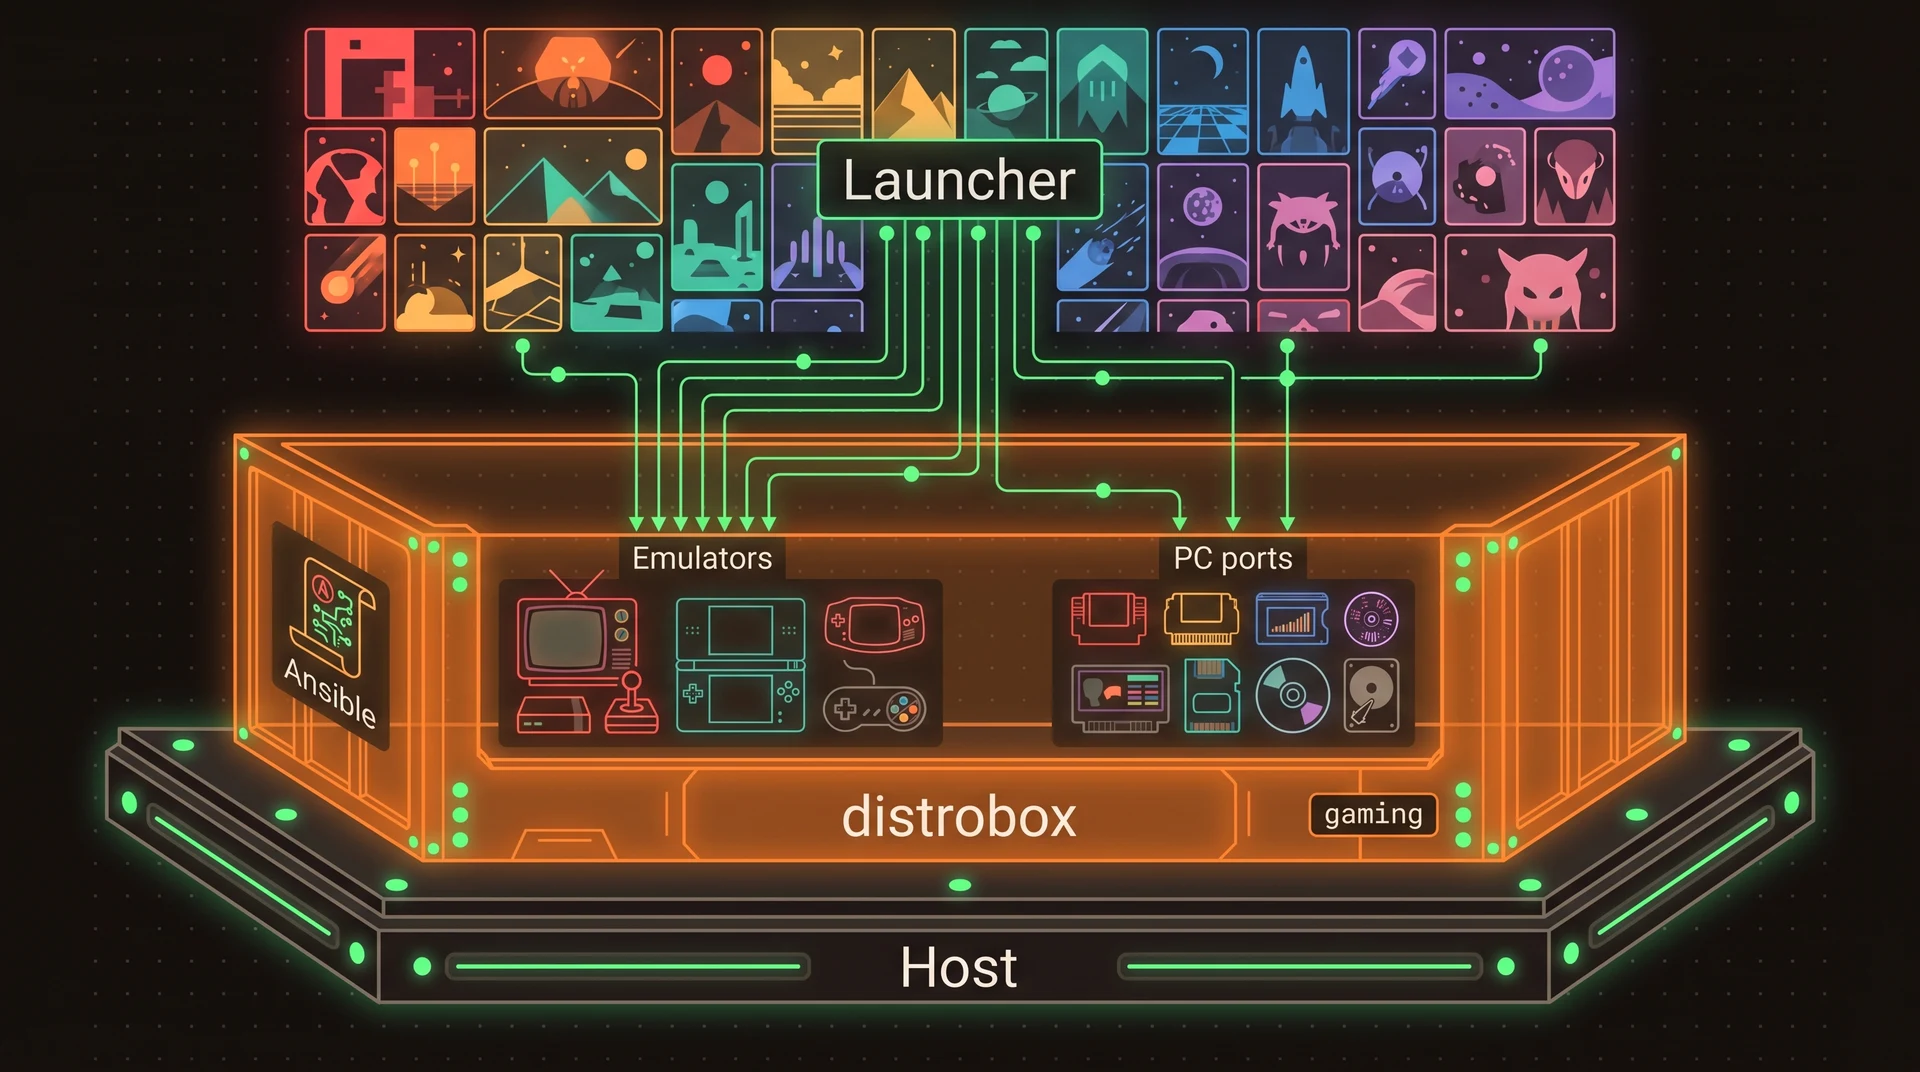
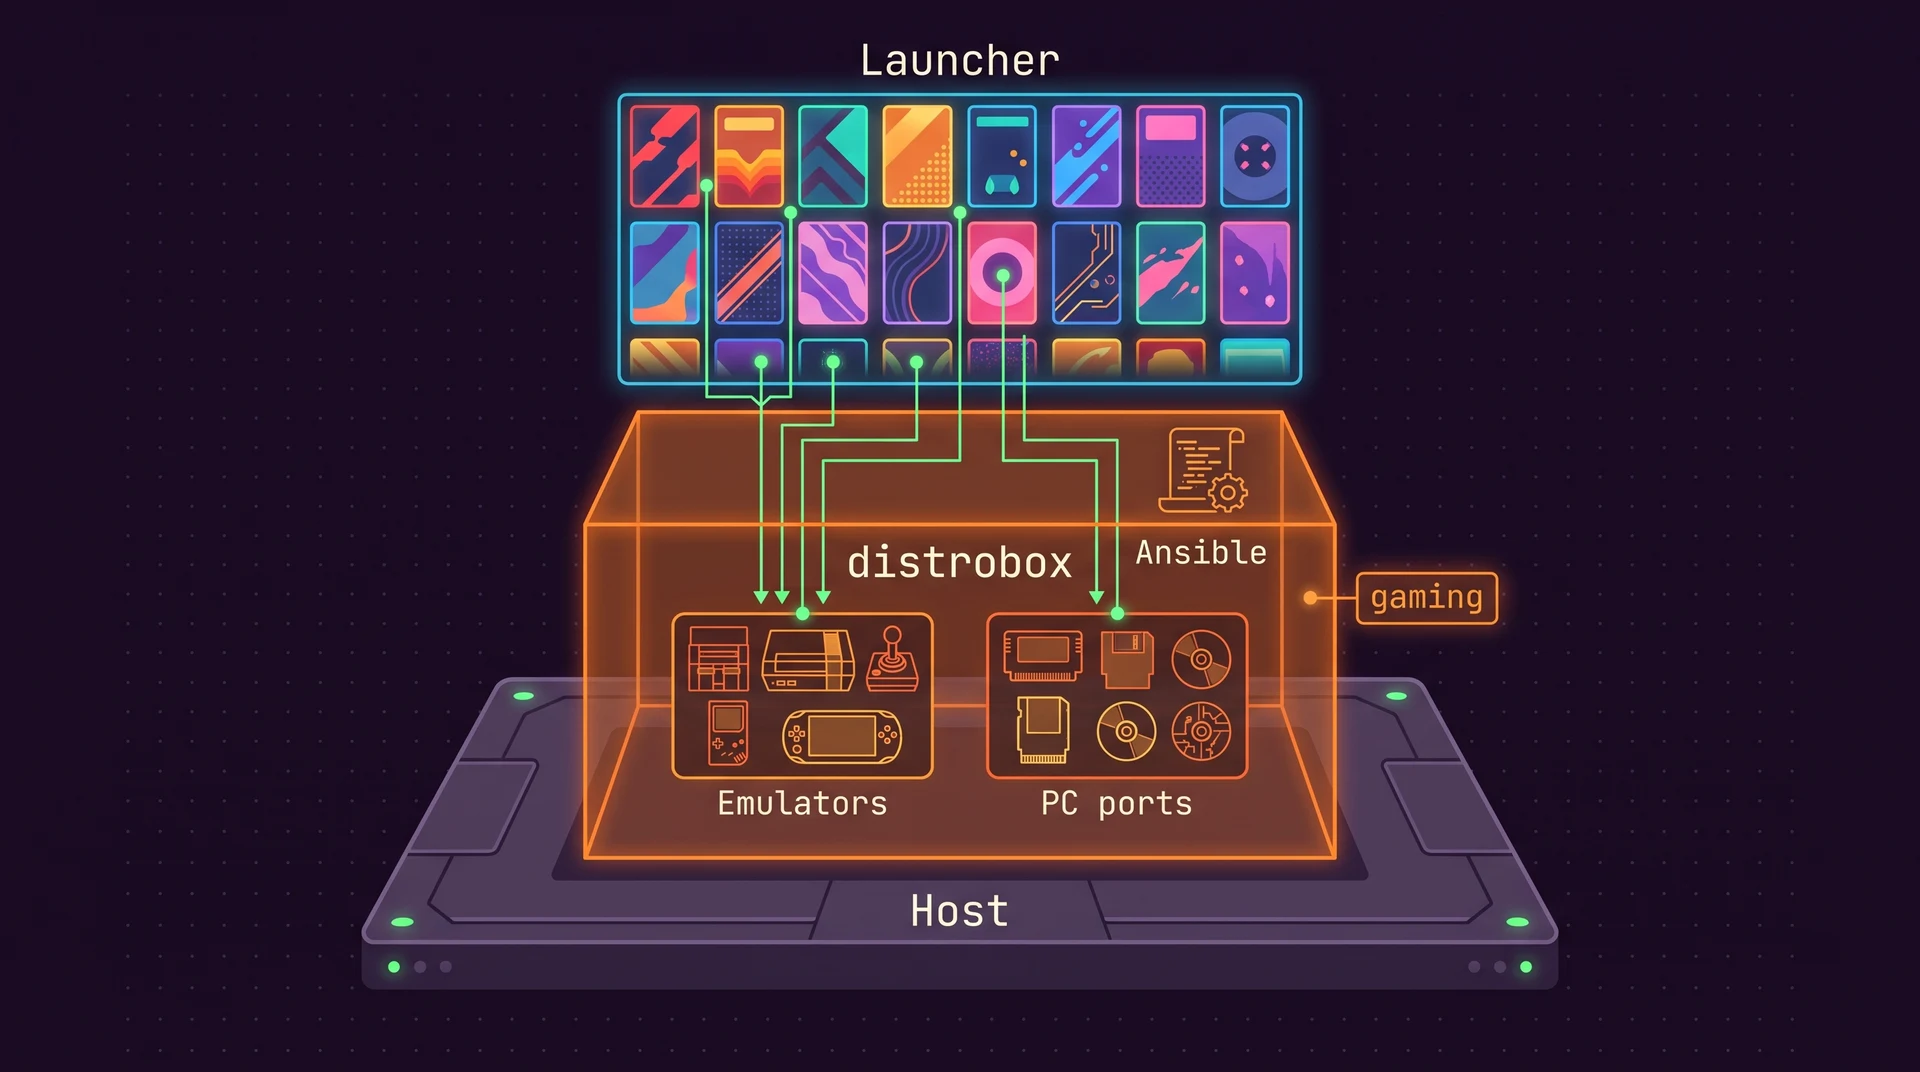
Palette: dark purple ground, closer to Unit-01, farther from ai-jail
Neutrals move from warm graphite (hue 60) to an aubergine purple (hue 310,
chroma 0.05), between ai-memory's indigo and ai-jail's maroon. Phosphor
green stays the one action color. Violet subject shifts to 288. All
diagrams and the share card regenerated on the new ground; contrast and
color-vision checks pass. Rationale in docs/color-study.md.

diff --git a/src/styles/global.css b/src/styles/global.css
@@ -11,26 +11,26 @@
   --v-orange: oklch(0.74 0.177 52);
   --v-amber: oklch(0.84 0.155 80);
   --v-teal: oklch(0.8 0.130 190);
-  --v-blue: oklch(0.7 0.162 252);
-  --v-violet: oklch(0.57 0.220 300);
+  --v-blue: oklch(0.7 0.163 250);
+  --v-violet: oklch(0.57 0.220 288);
   --v-rose: oklch(0.7 0.200 350);
-  --ink: oklch(0.16 0.008 60);
-  --ink-raised: oklch(0.21 0.010 60);
-  --ink-line: oklch(0.34 0.012 60);
-  --on-ink: oklch(0.955 0.006 60);
-  --on-ink-muted: oklch(0.76 0.012 60);
-  --veil: oklch(0.16 0.008 60 / 0.6);
+  --ink: oklch(0.16 0.050 310);
+  --ink-raised: oklch(0.21 0.055 310);
+  --ink-line: oklch(0.35 0.060 310);
+  --on-ink: oklch(0.96 0.012 310);
+  --on-ink-muted: oklch(0.78 0.035 310);
+  --veil: oklch(0.16 0.05 310 / 0.6);
   --shade: oklch(0 0 0 / 0.15);
   --v-green: oklch(0.85 0.200 150);
   --action: oklch(0.85 0.200 150);
   --action-hi: oklch(0.91 0.160 150);
   --on-action: oklch(0.22 0.050 160);
-  --bg: oklch(0.984 0.004 60);
-  --surface: oklch(1 0.000 60);
-  --tint: oklch(0.958 0.008 60);
-  --line: oklch(0.885 0.012 60);
-  --text: oklch(0.2 0.012 60);
-  --muted: oklch(0.45 0.014 60);
+  --bg: oklch(0.983 0.008 310);
+  --surface: oklch(1 0.000 310);
+  --tint: oklch(0.955 0.016 310);
+  --line: oklch(0.88 0.028 310);
+  --text: oklch(0.2 0.045 310);
+  --muted: oklch(0.45 0.045 310);
   --red: oklch(0.48 0.160 27);
   --red-soft: oklch(0.955 0.022 27);
   --orange: oklch(0.48 0.123 52);
@@ -39,21 +39,21 @@
   --amber-soft: oklch(0.955 0.035 80);
   --teal: oklch(0.48 0.083 190);
   --teal-soft: oklch(0.955 0.035 190);
-  --blue: oklch(0.48 0.144 252);
-  --blue-soft: oklch(0.955 0.022 252);
-  --violet: oklch(0.48 0.160 300);
-  --violet-soft: oklch(0.955 0.025 300);
+  --blue: oklch(0.48 0.136 250);
+  --blue-soft: oklch(0.955 0.022 250);
+  --violet: oklch(0.48 0.160 288);
+  --violet-soft: oklch(0.955 0.023 288);
   --rose: oklch(0.48 0.160 350);
   --rose-soft: oklch(0.955 0.026 350);
   --green: oklch(0.48 0.132 150);
 }
 [data-theme='dark'] {
-  --bg: oklch(0.16 0.008 60);
-  --surface: oklch(0.2 0.010 60);
-  --tint: oklch(0.235 0.011 60);
-  --line: oklch(0.34 0.012 60);
-  --text: oklch(0.955 0.006 60);
-  --muted: oklch(0.76 0.012 60);
+  --bg: oklch(0.16 0.050 310);
+  --surface: oklch(0.205 0.055 310);
+  --tint: oklch(0.24 0.058 310);
+  --line: oklch(0.35 0.060 310);
+  --text: oklch(0.96 0.012 310);
+  --muted: oklch(0.78 0.035 310);
   --red: oklch(0.83 0.094 27);
   --red-soft: oklch(0.27 0.055 27);
   --orange: oklch(0.83 0.107 52);
@@ -62,10 +62,10 @@
   --amber-soft: oklch(0.27 0.055 80);
   --teal: oklch(0.83 0.130 190);
   --teal-soft: oklch(0.27 0.047 190);
-  --blue: oklch(0.83 0.087 252);
-  --blue-soft: oklch(0.27 0.055 252);
-  --violet: oklch(0.83 0.100 300);
-  --violet-soft: oklch(0.27 0.055 300);
+  --blue: oklch(0.83 0.088 250);
+  --blue-soft: oklch(0.27 0.055 250);
+  --violet: oklch(0.83 0.090 288);
+  --violet-soft: oklch(0.27 0.055 288);
   --rose: oklch(0.83 0.112 350);
   --rose-soft: oklch(0.27 0.055 350);
   --green: oklch(0.83 0.130 150);
@@ -73,7 +73,7 @@
 /* PALETTE:END */
 
 :root {
-  --shadow: 0 1px 2px oklch(0.2 0.012 60 / 0.06), 0 12px 40px -12px oklch(0.2 0.012 60 / 0.2);
+  --shadow: 0 1px 2px oklch(0.2 0.05 310 / 0.08), 0 12px 40px -12px oklch(0.2 0.05 310 / 0.25);
   /* The toolkit spectrum: every subject hue in wheel order. Interpolated in OKLCH so the midpoints stay saturated. */
   --spectrum: linear-gradient(90deg in oklch, var(--v-red), var(--v-amber), var(--v-teal), var(--v-blue), var(--v-violet), var(--v-rose));
   --radius: 1rem;

diff --git a/docs/color-study.md b/docs/color-study.md
@@ -18,16 +18,16 @@ The site has no logo, so the palette comes from the tools themselves. Every scre
 | tclock's digits | pure signal red | `red`, tclock |
 | ghpending's repository headers, tclock's widget titles | amber | `amber`, ghpending (and the podcasts page) |
 | The Omarchy Quattro panel border, the usage gauges | blue | `blue`, ai-usagebar |
-| Evangelion Unit-01, the Omarchy accent | violet | `violet`, the workflow and skills |
+| The Omarchy accent | violet, a bluer lavender than the ground | `violet`, the workflow and skills |
 | ai-memory's brand spectrum | teal | `teal`, ai-memory |
 | tclock's calendar text | orange | `orange`, the games page and ai-jail |
 | (the writing, set apart from the tools) | rose | `rose`, the blog, the benchmark, the newsletter |
-| tclock's "● all systems healthy" dot | phosphor green | the one action color |
-| The terminal ground in the tclock screenshots | warm graphite | the neutrals |
+| tclock's "● all systems healthy" dot, and Unit-01's green on purple | phosphor green | the one action color |
+| Evangelion Unit-01's purple armor (the NERV look of the `nerv` and `evangelion` themes) | dark aubergine purple | the neutrals |
 
 ## 2. Decisions
 
-**Seven subject hues at fixed angles: 27, 52, 80, 190, 252, 300, 350.** The warm end has three hues about 25 degrees apart and the cool end four hues about 50 degrees apart, because warm hues at the same lightness are easier to tell apart than they look on paper, while cool hues need more distance. The gap between 80 and 190 is deliberate: it is where the action green lives, alone.
+**Seven subject hues at fixed angles: 27, 52, 80, 190, 250, 288, 350.** The warm end has three hues about 25 degrees apart and the cool end four hues about 50 degrees apart, because warm hues at the same lightness are easier to tell apart than they look on paper, while cool hues need more distance. The gap between 80 and 190 is deliberate: it is where the action green lives, alone.
 
 **Green means go, and nothing else.** `--action` is `oklch(0.85 0.2 150)`, the same in both themes, with dark `--on-action` text. It is the primary button, the focus ring, the text selection and the status dot of a code block. Nothing decorative is green. Green sits in the empty part of the wheel, so one green button is the loudest thing on any page without being large.
 
@@ -43,7 +43,7 @@ The site has no logo, so the palette comes from the tools themselves. Every scre
 
 Vivid is identical in both themes, because it is the color of the tool itself. Ink and soft flip with the theme.
 
-**Warm graphite neutrals, hue 60.** Dark ground `oklch(0.16 0.008 60)`, light ground `oklch(0.984 0.004 60)`. The sister sites already own the other two options: ai-jail's neutrals are maroon (hue 355) and ai-memory's are indigo (hue 282). A screenshot of any of the three sites is identifiable by its ground alone. Graphite is also what a terminal looks like, and it lets every subject hue sit on it without a cast.
+**Dark purple neutrals, hue 310.** Dark ground `oklch(0.16 0.05 310)` (#14061d), light ground `oklch(0.983 0.008 310)` (#fbf8fe). The first version used a warm graphite (hue 60, almost no chroma), and next to the sister sites it read as a cousin of ai-jail's maroon. The ground moved to a clearly purple aubergine with enough chroma (0.05) to be seen as a color, not a tinted black. It sits between the sister sites on the wheel: ai-memory's ground is indigo (hue 282, #0a0a1b) and ai-jail's is maroon (hue 355, #11070b), so the three are told apart by their grounds alone. Purple ground with a phosphor green action color is Evangelion Unit-01's scheme, the same NERV look the tools use in their terminals. The violet subject moved from 300 to 288 so it stays distinguishable from the ground.
 
 **The spectrum is interpolated in OKLCH.** `linear-gradient(90deg in oklch, ...)` keeps the midpoints saturated. The same stops in sRGB go grey between amber and teal.
 
@@ -57,7 +57,7 @@ The first version failed this: under deuteranopia, blue (ai-usagebar) and violet
 
 ## 4. Light and dark
 
-Text lightness 0.2 on ground 0.984 in light mode, 0.955 on 0.16 in dark. Accent ink flips from 0.48 to 0.83. Terminals, screenshots, diagrams, the quotes band and the closing band stay on the dark ink ground in both themes (`.on-ink`), the way a terminal does on a real desktop. That also means every diagram is generated once.
+Text lightness 0.2 on ground 0.983 in light mode, 0.96 on 0.16 in dark. Accent ink flips from 0.48 to 0.83. Terminals, screenshots, diagrams, the quotes band and the closing band stay on the dark ink ground in both themes (`.on-ink`), the way a terminal does on a real desktop. That also means every diagram is generated once.
 
 The theme follows the operating system until the visitor picks one; the footer has a "System" option that clears the choice. An inline script sets the theme before first paint, so there is no flash.
 
@@ -73,7 +73,7 @@ All three are variable fonts, self-hosted through Fontsource, with Latin Extende
 
 ## 6. Generated images
 
-The art direction in `scripts/prompts/_style.txt` names the same hex values and the same meanings: which hue belongs to which tool, green only for flow and status, the graphite ground. The images were generated when vivid violet was `#A86BFD`; the prompt now names the darker `#8E4AE2`, and the difference is only visible side by side.
+The art direction in `scripts/prompts/_style.txt` names the same hex values and the same meanings: which hue belongs to which tool, green only for flow and status, the purple ground. Every diagram was regenerated when the ground moved to purple, so the images and the page share one ground.
 
 ## 7. Measured values
 
@@ -83,101 +83,101 @@ Regenerate with `node scripts/check-contrast.mjs --md`. Targets: 7:1 for body te
 
 | Foreground | Background | Ratio | Target | |
 |---|---|---|---|---|
-| `text` #1a1511 | `bg` #fcf9f7 | 17.30 | 7 | pass |
-| `text` #1a1511 | `surface` #ffffff | 18.13 | 7 | pass |
-| `text` #1a1511 | `tint` #f5f0ec | 16.02 | 7 | pass |
-| `muted` #5b544e | `bg` #fcf9f7 | 7.12 | 4.5 | pass |
-| `muted` #5b544e | `surface` #ffffff | 7.47 | 4.5 | pass |
-| `muted` #5b544e | `tint` #f5f0ec | 6.60 | 4.5 | pass |
-| `red` #a52a26 | `bg` #fcf9f7 | 6.78 | 4.5 | pass |
+| `text` #1c1025 | `bg` #fbf8fe | 17.37 | 7 | pass |
+| `text` #1c1025 | `surface` #ffffff | 18.28 | 7 | pass |
+| `text` #1c1025 | `tint` #f3edf8 | 15.97 | 7 | pass |
+| `muted` #5d4e68 | `bg` #fbf8fe | 7.21 | 4.5 | pass |
+| `muted` #5d4e68 | `surface` #ffffff | 7.58 | 4.5 | pass |
+| `muted` #5d4e68 | `tint` #f3edf8 | 6.62 | 4.5 | pass |
+| `red` #a52a26 | `bg` #fbf8fe | 6.75 | 4.5 | pass |
 | `red` #a52a26 | `surface` #ffffff | 7.10 | 4.5 | pass |
-| `red` #a52a26 | `tint` #f5f0ec | 6.27 | 4.5 | pass |
+| `red` #a52a26 | `tint` #f3edf8 | 6.20 | 4.5 | pass |
 | `red` #a52a26 | `red-soft` #ffebe8 | 6.18 | 4.5 | pass |
-| `orange` #924501 | `bg` #fcf9f7 | 6.54 | 4.5 | pass |
+| `orange` #924501 | `bg` #fbf8fe | 6.51 | 4.5 | pass |
 | `orange` #924501 | `surface` #ffffff | 6.85 | 4.5 | pass |
-| `orange` #924501 | `tint` #f5f0ec | 6.05 | 4.5 | pass |
+| `orange` #924501 | `tint` #f3edf8 | 5.98 | 4.5 | pass |
 | `orange` #924501 | `orange-soft` #ffece1 | 5.97 | 4.5 | pass |
-| `amber` #7b5601 | `bg` #fcf9f7 | 6.32 | 4.5 | pass |
+| `amber` #7b5601 | `bg` #fbf8fe | 6.30 | 4.5 | pass |
 | `amber` #7b5601 | `surface` #ffffff | 6.63 | 4.5 | pass |
-| `amber` #7b5601 | `tint` #f5f0ec | 5.86 | 4.5 | pass |
+| `amber` #7b5601 | `tint` #f3edf8 | 5.79 | 4.5 | pass |
 | `amber` #7b5601 | `amber-soft` #fdeed6 | 5.80 | 4.5 | pass |
-| `teal` #006c68 | `bg` #fcf9f7 | 5.98 | 4.5 | pass |
+| `teal` #006c68 | `bg` #fbf8fe | 5.95 | 4.5 | pass |
 | `teal` #006c68 | `surface` #ffffff | 6.26 | 4.5 | pass |
-| `teal` #006c68 | `tint` #f5f0ec | 5.54 | 4.5 | pass |
+| `teal` #006c68 | `tint` #f3edf8 | 5.47 | 4.5 | pass |
 | `teal` #006c68 | `teal-soft` #d7f8f5 | 5.56 | 4.5 | pass |
-| `blue` #005eab | `bg` #fcf9f7 | 6.28 | 4.5 | pass |
-| `blue` #005eab | `surface` #ffffff | 6.58 | 4.5 | pass |
-| `blue` #005eab | `tint` #f5f0ec | 5.81 | 4.5 | pass |
-| `blue` #005eab | `blue-soft` #e6f2ff | 5.78 | 4.5 | pass |
-| `violet` #6d41a9 | `bg` #fcf9f7 | 6.73 | 4.5 | pass |
-| `violet` #6d41a9 | `surface` #ffffff | 7.05 | 4.5 | pass |
-| `violet` #6d41a9 | `tint` #f5f0ec | 6.23 | 4.5 | pass |
-| `violet` #6d41a9 | `violet-soft` #f2edff | 6.15 | 4.5 | pass |
-| `rose` #9b2b6a | `bg` #fcf9f7 | 6.84 | 4.5 | pass |
+| `blue` #0060a6 | `bg` #fbf8fe | 6.22 | 4.5 | pass |
+| `blue` #0060a6 | `surface` #ffffff | 6.55 | 4.5 | pass |
+| `blue` #0060a6 | `tint` #f3edf8 | 5.72 | 4.5 | pass |
+| `blue` #0060a6 | `blue-soft` #e5f2ff | 5.75 | 4.5 | pass |
+| `violet` #5d48b1 | `bg` #fbf8fe | 6.62 | 4.5 | pass |
+| `violet` #5d48b1 | `surface` #ffffff | 6.97 | 4.5 | pass |
+| `violet` #5d48b1 | `tint` #f3edf8 | 6.09 | 4.5 | pass |
+| `violet` #5d48b1 | `violet-soft` #efeeff | 6.09 | 4.5 | pass |
+| `rose` #9b2b6a | `bg` #fbf8fe | 6.81 | 4.5 | pass |
 | `rose` #9b2b6a | `surface` #ffffff | 7.16 | 4.5 | pass |
-| `rose` #9b2b6a | `tint` #f5f0ec | 6.33 | 4.5 | pass |
+| `rose` #9b2b6a | `tint` #f3edf8 | 6.25 | 4.5 | pass |
 | `rose` #9b2b6a | `rose-soft` #ffe9f3 | 6.22 | 4.5 | pass |
-| `green` #007132 | `bg` #fcf9f7 | 5.87 | 4.5 | pass |
+| `green` #007132 | `bg` #fbf8fe | 5.84 | 4.5 | pass |
 | `green` #007132 | `surface` #ffffff | 6.15 | 4.5 | pass |
 | `on-action` #002112 | `action` #52f184 | 11.58 | 7 | pass |
 | `on-action` #002112 | `action-hi` #8cffa7 | 13.79 | 7 | pass |
-| `on-ink` #f3efec | `ink` #100c0a | 17.02 | 7 | pass |
-| `on-ink` #f3efec | `ink-raised` #1c1714 | 15.55 | 7 | pass |
-| `on-ink-muted` #b7afaa | `ink-raised` #1c1714 | 8.24 | 4.5 | pass |
-| `line` #dfd7d1 | `bg` #fcf9f7 | 1.35 | 1.2 | pass |
+| `on-ink` #f4f0f8 | `ink` #14061d | 17.36 | 7 | pass |
+| `on-ink` #f4f0f8 | `ink-raised` #20102b | 15.94 | 7 | pass |
+| `on-ink-muted` #beb2c9 | `ink-raised` #20102b | 8.87 | 4.5 | pass |
+| `line` #ddd3e6 | `bg` #fbf8fe | 1.38 | 1.2 | pass |
 
 ### dark
 
 | Foreground | Background | Ratio | Target | |
 |---|---|---|---|---|
-| `text` #f3efec | `bg` #100c0a | 17.02 | 7 | pass |
-| `text` #f3efec | `surface` #1a1512 | 15.88 | 7 | pass |
-| `text` #f3efec | `tint` #221d19 | 14.63 | 7 | pass |
-| `muted` #b7afaa | `bg` #100c0a | 9.02 | 4.5 | pass |
-| `muted` #b7afaa | `surface` #1a1512 | 8.42 | 4.5 | pass |
-| `muted` #b7afaa | `tint` #221d19 | 7.76 | 4.5 | pass |
-| `red` #ffb0a6 | `bg` #100c0a | 11.11 | 4.5 | pass |
-| `red` #ffb0a6 | `surface` #1a1512 | 10.36 | 4.5 | pass |
-| `red` #ffb0a6 | `tint` #221d19 | 9.55 | 4.5 | pass |
+| `text` #f4f0f8 | `bg` #14061d | 17.36 | 7 | pass |
+| `text` #f4f0f8 | `surface` #1f0f2a | 16.10 | 7 | pass |
+| `text` #f4f0f8 | `tint` #281634 | 14.85 | 7 | pass |
+| `muted` #beb2c9 | `bg` #14061d | 9.66 | 4.5 | pass |
+| `muted` #beb2c9 | `surface` #1f0f2a | 8.96 | 4.5 | pass |
+| `muted` #beb2c9 | `tint` #281634 | 8.26 | 4.5 | pass |
+| `red` #ffb0a6 | `bg` #14061d | 11.19 | 4.5 | pass |
+| `red` #ffb0a6 | `surface` #1f0f2a | 10.38 | 4.5 | pass |
+| `red` #ffb0a6 | `tint` #281634 | 9.57 | 4.5 | pass |
 | `red` #ffb0a6 | `red-soft` #3d1b17 | 8.79 | 4.5 | pass |
-| `orange` #ffb486 | `bg` #100c0a | 11.18 | 4.5 | pass |
-| `orange` #ffb486 | `surface` #1a1512 | 10.44 | 4.5 | pass |
-| `orange` #ffb486 | `tint` #221d19 | 9.62 | 4.5 | pass |
+| `orange` #ffb486 | `bg` #14061d | 11.27 | 4.5 | pass |
+| `orange` #ffb486 | `surface` #1f0f2a | 10.45 | 4.5 | pass |
+| `orange` #ffb486 | `tint` #281634 | 9.64 | 4.5 | pass |
 | `orange` #ffb486 | `orange-soft` #3b1e0a | 8.80 | 4.5 | pass |
-| `amber` #f3bd5c | `bg` #100c0a | 11.37 | 4.5 | pass |
-| `amber` #f3bd5c | `surface` #1a1512 | 10.61 | 4.5 | pass |
-| `amber` #f3bd5c | `tint` #221d19 | 9.78 | 4.5 | pass |
+| `amber` #f3bd5c | `bg` #14061d | 11.46 | 4.5 | pass |
+| `amber` #f3bd5c | `surface` #1f0f2a | 10.63 | 4.5 | pass |
+| `amber` #f3bd5c | `tint` #281634 | 9.80 | 4.5 | pass |
 | `amber` #f3bd5c | `amber-soft` #342301 | 8.87 | 4.5 | pass |
-| `teal` #3fe2da | `bg` #100c0a | 12.11 | 4.5 | pass |
-| `teal` #3fe2da | `surface` #1a1512 | 11.30 | 4.5 | pass |
-| `teal` #3fe2da | `tint` #221d19 | 10.42 | 4.5 | pass |
+| `teal` #3fe2da | `bg` #14061d | 12.20 | 4.5 | pass |
+| `teal` #3fe2da | `surface` #1f0f2a | 11.32 | 4.5 | pass |
+| `teal` #3fe2da | `tint` #281634 | 10.44 | 4.5 | pass |
 | `teal` #3fe2da | `teal-soft` #002e2b | 9.23 | 4.5 | pass |
-| `blue` #9eccff | `bg` #100c0a | 11.55 | 4.5 | pass |
-| `blue` #9eccff | `surface` #1a1512 | 10.78 | 4.5 | pass |
-| `blue` #9eccff | `tint` #221d19 | 9.93 | 4.5 | pass |
-| `blue` #9eccff | `blue-soft` #102840 | 8.96 | 4.5 | pass |
-| `violet` #d1b9ff | `bg` #100c0a | 11.18 | 4.5 | pass |
-| `violet` #d1b9ff | `surface` #1a1512 | 10.43 | 4.5 | pass |
-| `violet` #d1b9ff | `tint` #221d19 | 9.61 | 4.5 | pass |
-| `violet` #d1b9ff | `violet-soft` #2b203d | 8.81 | 4.5 | pass |
-| `rose` #ffa9d2 | `bg` #100c0a | 10.96 | 4.5 | pass |
-| `rose` #ffa9d2 | `surface` #1a1512 | 10.23 | 4.5 | pass |
-| `rose` #ffa9d2 | `tint` #221d19 | 9.42 | 4.5 | pass |
+| `blue` #9cccff | `bg` #14061d | 11.65 | 4.5 | pass |
+| `blue` #9cccff | `surface` #1f0f2a | 10.81 | 4.5 | pass |
+| `blue` #9cccff | `tint` #281634 | 9.97 | 4.5 | pass |
+| `blue` #9cccff | `blue-soft` #0f2840 | 8.96 | 4.5 | pass |
+| `violet` #c4bfff | `bg` #14061d | 11.37 | 4.5 | pass |
+| `violet` #c4bfff | `surface` #1f0f2a | 10.54 | 4.5 | pass |
+| `violet` #c4bfff | `tint` #281634 | 9.72 | 4.5 | pass |
+| `violet` #c4bfff | `violet-soft` #252140 | 8.87 | 4.5 | pass |
+| `rose` #ffa9d2 | `bg` #14061d | 11.04 | 4.5 | pass |
+| `rose` #ffa9d2 | `surface` #1f0f2a | 10.24 | 4.5 | pass |
+| `rose` #ffa9d2 | `tint` #281634 | 9.44 | 4.5 | pass |
 | `rose` #ffa9d2 | `rose-soft` #3a1a2a | 8.69 | 4.5 | pass |
-| `green` #86df9a | `bg` #100c0a | 12.06 | 4.5 | pass |
-| `green` #86df9a | `surface` #1a1512 | 11.26 | 4.5 | pass |
+| `green` #86df9a | `bg` #14061d | 12.15 | 4.5 | pass |
+| `green` #86df9a | `surface` #1f0f2a | 11.27 | 4.5 | pass |
 | `on-action` #002112 | `action` #52f184 | 11.58 | 7 | pass |
 | `on-action` #002112 | `action-hi` #8cffa7 | 13.79 | 7 | pass |
-| `on-ink` #f3efec | `ink` #100c0a | 17.02 | 7 | pass |
-| `on-ink` #f3efec | `ink-raised` #1c1714 | 15.55 | 7 | pass |
-| `on-ink-muted` #b7afaa | `ink-raised` #1c1714 | 8.24 | 4.5 | pass |
-| `line` #3d3732 | `bg` #100c0a | 1.65 | 1.2 | pass |
+| `on-ink` #f4f0f8 | `ink` #14061d | 17.36 | 7 | pass |
+| `on-ink` #f4f0f8 | `ink-raised` #20102b | 15.94 | 7 | pass |
+| `on-ink-muted` #beb2c9 | `ink-raised` #20102b | 8.87 | 4.5 | pass |
+| `line` #443152 | `bg` #14061d | 1.69 | 1.2 | pass |
 
 ### Closest pair of subject hues
 
 | Vision | Closest pair | OKLab distance |
 |---|---|---|
 | normal | orange and amber | 0.130 |
-| protan | violet and rose | 0.125 |
+| protan | violet and rose | 0.127 |
 | deutan | teal and rose | 0.093 |
 | tritan | red and orange | 0.077 |

diff --git a/docs/images.md b/docs/images.md
@@ -12,7 +12,7 @@ node scripts/gen-image.mjs home-loop --aspect 4:3        # also 1:1, 21:9, 3:2
 node scripts/gen-image.mjs tclock-widgets --ref ~/Projects/clock-tui/assets/screenshot-clock-widgets.png
 ```
 
-Every request gets `scripts/prompts/_style.txt` appended: the graphite ground, which hue belongs to which tool, green only for flow and status, short off-white labels. The site has no logo, so there is no default reference image; `--ref` attaches a real screenshot when a drawing should echo a tool's interface.
+Every request gets `scripts/prompts/_style.txt` appended: the dark purple ground, which hue belongs to which tool, green only for flow and status, short off-white labels. The site has no logo, so there is no default reference image; `--ref` attaches a real screenshot when a drawing should echo a tool's interface.
 
 Writing a prompt that works:
 

diff --git a/docs/design-system.md b/docs/design-system.md
@@ -4,7 +4,7 @@ How pages on aitoolkit.akitaonrails.com are put together. Read this before addin
 
 ## The idea
 
-This site is an umbrella: many small tools, one person, one workflow. There is no logo. The identity comes from the tools' own screens.
+This site is an umbrella: many small tools, one person, one workflow. There is no logo; the portrait is the face. The identity is a dark purple ground with phosphor green actions (Evangelion Unit-01, the NERV look of the tools' own terminals).
 
 1. One hue per subject, taken from the tool's own terminal colors, kept everywhere that subject appears.
 2. Phosphor green means go: the primary button, focus, the status dot on a code block. Nothing else is green.
